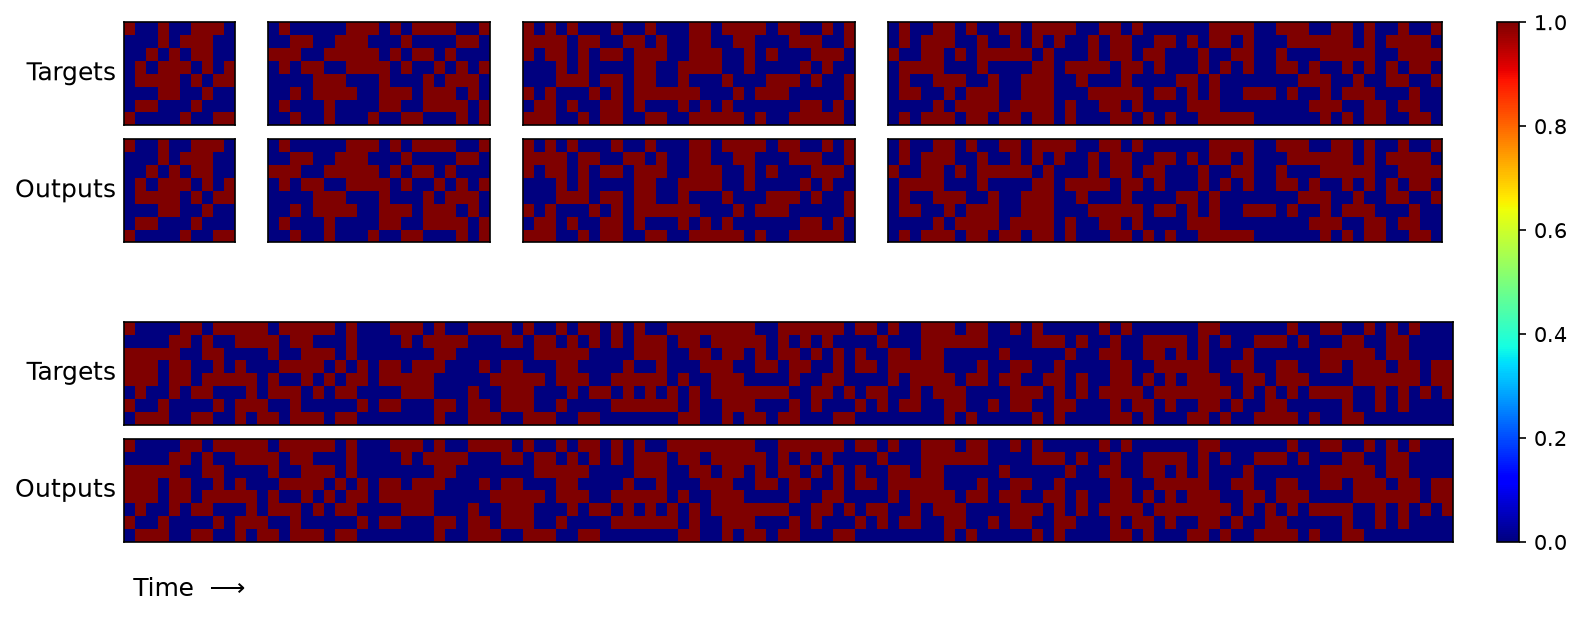
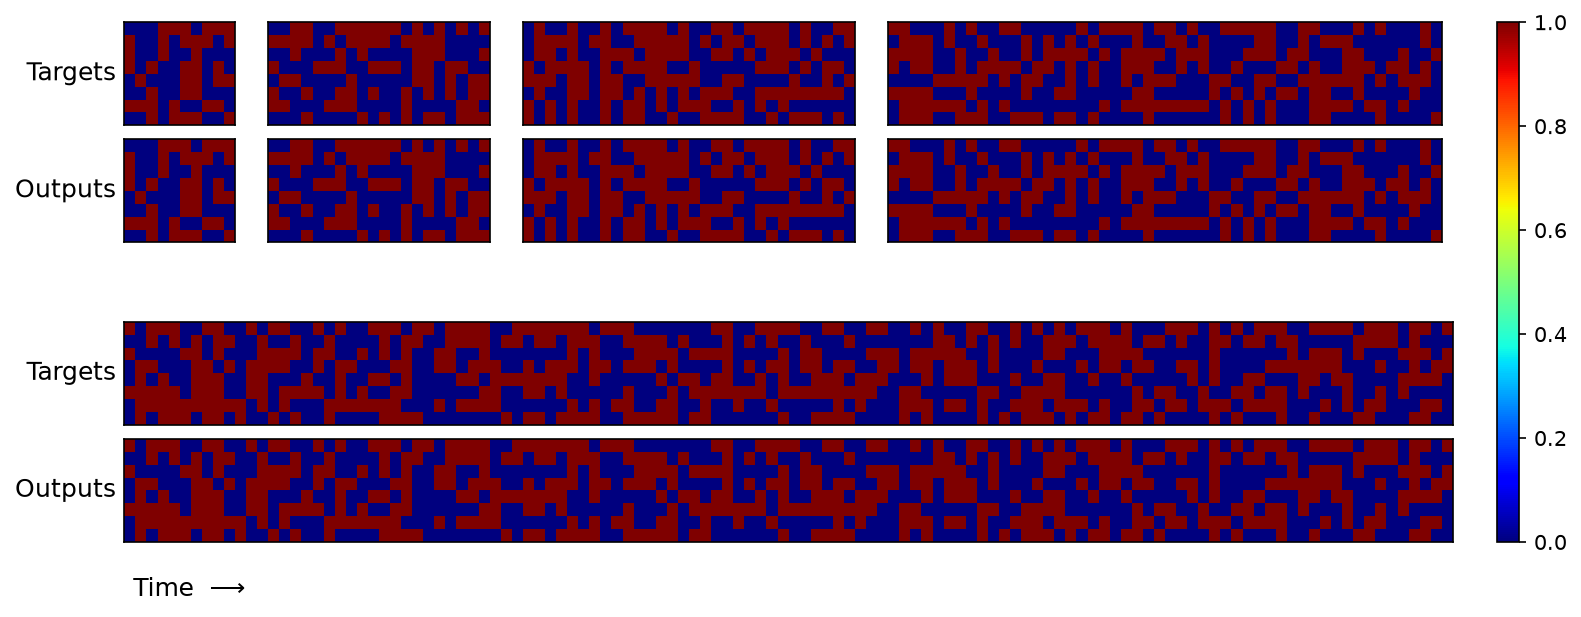
Remove the repeat copy task
The reproduction did not hold up. The interpolation gate turned out to
predict generalisation cleanly - every converged run with an open gate
beat every run with a closed one, and biasing it open gave 0.68% error
at twice the training length against 18.5% for the setting we shipped -
but it never gave reliable convergence. gate_bias=+1.0 trained on two of
four seeds, +2.0 and +0.5 on none. A result that appears on half of
seeds is not a reproduction, so the task comes out rather than going
into results.md with a caveat.

Kept, because none of it is repeat-copy specific: the captured-graph
fixes, the diagnostics probe, and the finding that training lengths 1-10
do not bootstrap where 1-20 do - which will decide whether whatever task
replaces this one trains at all.

Copy is untouched: 18 tests pass and its figures still draw.

Changed region(s): [[0.062, 0.5235, 0.9298, 0.893], [0.062, 0.0308, 0.9298, 0.4003]]

diff --git a/src/models/build.py b/src/models/build.py
@@ -22,31 +22,6 @@ SETTINGS = {
         "ntm-lstm": dict(heads=1, controller_size=100, learning_rate=1e-4),  # Table 2
         "lstm": dict(hidden_size=256, num_layers=3, learning_rate=3e-5),  # Table 3
     },
-    "repeat-copy": {
-        # initial_focus is ours, not the paper's: repeat copy needs the head to sweep one block
-        # of memory R times, which means shifting, and a diffuse starting weighting is a poor
-        # thing to shift. It buys faster convergence and costs nothing measurable afterwards.
-        #
-        # We also used to bias the interpolation gate to -2.0 here, and that was a mistake. It
-        # held the gate at its starting value for the whole run (0.083 after 446,000 sequences,
-        # against sigmoid(-2) = 0.119 at init), which left the write head a pure shift register:
-        # sharp weighting, full-strength erase, one location per timestep, for every timestep of
-        # the output phase. Inside the training range that is harmless, because the longest
-        # example is 112 timesteps and the head runs off into memory it never wrote. Past 128 it
-        # laps the ring and erases the sequence it is still reading out, which is why
-        # generalisation collapsed on both axes.
-        #
-        # The copy task, which never had this bias, shows what the model learns instead when it
-        # is left alone: it raises the gate from 0.20 in the input phase to 0.44 in the output
-        # phase, and the write weighting goes diffuse (peak 0.41, against 0.95 here). A spread
-        # weighting makes the write harmless without the head ever having to stop. That is the
-        # behaviour the bias was preventing, so the bias is gone.
-        "ntm-ff": dict(heads=1, controller_size=100, learning_rate=1e-4,
-                       initial_focus=True),  # Table 1
-        "ntm-lstm": dict(heads=1, controller_size=100, learning_rate=1e-4,
-                         initial_focus=True),  # Table 2
-        "lstm": dict(hidden_size=512, num_layers=3, learning_rate=3e-5),  # Table 3: 3 x 512 here
-    },
 }
 
 

diff --git a/src/plots.py b/src/plots.py
@@ -12,13 +12,12 @@ import os
 import matplotlib.pyplot as plt
 
 from src.tasks.copy import plots as copy_plots
-from src.tasks.repeat_copy import plots as repeat_copy_plots
 
 # Task name -> the module drawing that task's own figures. A module may define
 # plot_generalisation(model_name, checkpoint_path, out_path) and
 # plot_memory_use(model_name, checkpoint_path, out_path, length); a task with neither still
 # trains and still gets its learning curves.
-TASK_PLOTS = {"copy": copy_plots, "repeat-copy": repeat_copy_plots}
+TASK_PLOTS = {"copy": copy_plots}
 
 
 def task_plot(task_name: str, figure: str):

diff --git a/main.py b/main.py
@@ -2,7 +2,6 @@
 
     uv run main.py demo                        run one batch through an untrained model
     uv run main.py train --model ntm-ff        train (also: lstm, ntm-lstm)
-    uv run main.py train --task repeat-copy    train on another task (also: copy)
     uv run main.py plot --model ntm-ff         draw Figures 3 and 5 into figures/
     uv run main.py try 10110010 01100101 ...   copy your own 8-bit vectors
     uv run main.py try --random 30             or a random sequence of that length

diff --git a/modal_run.py b/modal_run.py
@@ -1,7 +1,6 @@
 """Train on a Modal GPU and bring the results back.
 
     uv run --with modal modal run modal_run.py --model lstm
-    uv run --with modal modal run modal_run.py --model ntm-ff --task repeat-copy
 
 Each step replays as a single CUDA graph, which is what makes a GPU worth using here: eager, the
 NTM is several times slower on a GPU than on a laptop CPU, because it launches a few hundred tiny

diff --git a/src/tasks/registry.py b/src/tasks/registry.py
@@ -14,11 +14,9 @@ demo and the task's own figures use to pin an example to a chosen length.
 """
 
 from src.tasks.copy import data as copy_data
-from src.tasks.repeat_copy import data as repeat_copy_data
 
 TASKS = {
     "copy": copy_data,  # paper, Section 4.1
-    "repeat-copy": repeat_copy_data,  # Section 4.2
 }
 
 

diff --git a/results.md b/results.md
@@ -116,138 +116,3 @@ uv run main.py memory --model ntm-ff --length 40
 
 About 70 minutes per NTM on an A10G, or four hours on a laptop CPU; `modal_run.py` runs it on a
 rented GPU and downloads the results.
-
----
-
-# Results: the repeat copy task
-
-The same three models and the same 500,000 sequences, on the task from Section 4.2: read up to
-ten 8-bit vectors and a scalar repeat count, then emit the sequence that many times and raise an
-end-of-sequence marker. Both L and R are drawn from 1 to 10, so the longest training example is
-112 timesteps. Architectures and learning rates are the paper's Tables 1 to 3 again: 3e-5 for the
-LSTM baseline (5,280,265 parameters), 1e-4 for both NTMs (16,317 and 66,217).
-
-## Learning curves (paper Figure 7)
-
-![Repeat copy learning curves](figures/repeat-copy/learning_curves.png)
-
-Cost in bits per sequence, as a rolling median over the last 20,000 sequences - at one sequence
-per update the mean is dominated by a heavy tail of rare bad batches, which is what makes the raw
-curve so noisy:
-
-| | first median below 1 bit | first below 0.1 bits | median at the end |
-|---|---|---|---|
-| NTM, LSTM controller | **38,000** | **54,000** | **0.0003** |
-| NTM, feed-forward | 121,000 | - | 0.68 |
-| LSTM | 307,000 | 419,000 | 0.0088 |
-
-The ordering matches the paper's Figure 7: the LSTM-controller NTM first, the feed-forward NTM
-next, the LSTM baseline last, by roughly an order of magnitude in sequences. Two differences from
-the paper. Our LSTM baseline does eventually solve the task, at about 400,000 sequences, where
-the paper's is still well above zero at the end of its run. And our feed-forward NTM does not
-fully settle: it was still improving when the run ended, at about 0.2 bits, hitting exact zero on
-most sequences and losing a whole copy on a minority of them.
-
-## Generalisation (paper Figure 9)
-
-Trained on L, R up to 10. Percentage of output *data* bits wrong, ten sequences per cell; the
-end-of-sequence marker is scored separately below.
-
-| | trained (L10 R10) | twice the length (L20 R10) | twice the repeats (L10 R20) | 1.5x both (L15 R15) |
-|---|---|---|---|---|
-| LSTM | 0.0% | 45.5% | 4.5% | 46.1% |
-| NTM, feed-forward | 0.1% | 40.2% | 48.8% | 44.1% |
-| NTM, LSTM controller | 0.0% | **20.6%** | **17.7%** | **24.5%** |
-
-![NTM repeat-copy generalisation](figures/repeat-copy/ntm-lstm_generalisation.png)
-
-*NTM, LSTM controller. Each pair is targets above, outputs below: the trained range, then twice
-the length, then twice the repeats.*
-
-**This is the one place the reproduction clearly falls short.** The paper's Figure 9 shows an NTM
-that keeps copying correctly well past the trained range and fails only on the end marker, which
-it never learns to place. Ours copies correctly for roughly the first 150 timesteps of any test
-sequence and then degrades, on both axes equally.
-
-That symmetry is the clue, and the paper names the mechanism itself. Footnote 2, on the copy
-task's own limits: *"The limiting factor was the size of the memory (128 locations), after which
-the cyclical shifts wrapped around and previous writes were overwritten."* So this failure is
-not one we invented - it is the same wall Graves et al. hit. What differs is that their copy
-network only writes during the input phase, so it reaches length 120 before wrapping, whereas
-ours keeps writing all through a repeat copy output phase and wraps far sooner.
-
-150 timesteps is close to the 128 locations in memory, and the
-degradation does not care whether the extra timesteps came from a longer sequence or from more
-repeats. Tracing the heads confirms it. The write head does not stop when the input ends - it
-keeps stepping forward one location per timestep through the whole output phase. Inside the
-trained range that is harmless, because the longest example is 112 timesteps and the head runs
-off the end of the used region into empty memory: at L10 R10, 0 of 101 output-phase writes land
-on a location holding data. At L10 R20 the head wraps around the 128 locations and comes back to
-the start, and 10 of 201 output-phase writes land on stored vectors, with a mean erase strength
-of 0.38 and added vectors of magnitude 1.03. The model overwrites its own input while it is still
-reading it out.
-
-The read head shows the other half. At the trained size the LSTM-controller NTM jumps cleanly
-back to the start of the sequence at the end of each copy - 9 of 9 jumps, with the weighting
-peaking at 0.996. At R = 20 it manages only 11 of 19, and the peak weighting falls to 0.722: by
-then the locations it is jumping back to have been partly erased, so content addressing no longer
-finds them sharply. The feed-forward controller is worse, hitting only 7 of 9 jumps at a peak of
-0.436 even inside the trained range, which is consistent with its higher error everywhere.
-
-None of that is a bug in the addressing - it is a real limitation of what 500,000 sequences of
-this task taught the model. Nothing in the training distribution ever punishes writing during the
-output phase, because no training sequence is long enough for the write head to come back around.
-
-## Memory use
-
-![NTM repeat-copy memory use](figures/repeat-copy/ntm-lstm_memory.png)
-
-*The learned loop. The write head lays the sequence down one location per timestep, and the read
-head then sweeps the same block of locations once per repeat, snapping back to the first location
-each time the copy ends.*
-
-## Why this needed an addition the paper does not describe
-
-Repeat copy did not train at all from the initialisation the copy task uses: both NTMs sat near
-chance for 100,000 sequences. We added two things to get it moving, and only one of them turned
-out to deserve a place.
-
-**What goes wrong is the sequence length, not the repeats.** Holding the model, the loop and the
-seed fixed and changing only the training length range on the *copy* task:
-
-| lengths trained on | cost at 10,000 sequences | converged |
-|---|---|---|
-| 1 to 20 | 0.01 bits | yes, by 7,500 |
-| 1 to 15 | 0.69 | yes, by 10,000 |
-| **1 to 10** | **27.0, 29.8, 30.5** (three seeds) | **no** |
-| fixed length 10 | 61.5 | no |
-
-Copy trains on lengths 1 to 20 and bootstraps itself. Repeat copy trains on 1 to 10, below the
-threshold, so it needs help that copy never does. A degenerate range is worse still than a narrow
-one, so this is about the variety of lengths the head sees early, not simply about short
-sequences.
-
-**The initial weighting is focused, not random** - ours, not the paper's. The starting weighting
-puts its mass on location 0 instead of being drawn from a normal, so the heads begin somewhere
-definite and the shift mechanism has something to step from. On copy restricted to lengths 1 to
-10 this alone converges in 6,000 sequences and then copies length 120, twelve times the training
-range, at zero bit error.
-
-**The write gate does not start closed, and biasing it was a mistake.** We used to set the
-interpolation gate's bias to -2.0. On the same short-copy bench, adding it to the focused start
-makes convergence slower - 10,000 sequences against 6,000 - and takes generalisation from 0%
-wrong at length 120 to 49%, which is chance. On its own it does not learn the task at all. It
-also never moved during training: after 446,000 sequences the output-phase gate read 0.083,
-against sigmoid(-2) = 0.119 at initialisation. It is gone.
-
-That bias is the best explanation we have for the generalisation gap above, and it was our own
-doing rather than anything the paper specifies.
-
-## Reproducing
-
-```sh
-uv run main.py train --task repeat-copy --model ntm-lstm --sequences 500000
-uv run main.py compare --task repeat-copy
-uv run main.py plot --task repeat-copy --model ntm-lstm
-uv run main.py memory --task repeat-copy --model ntm-lstm
-```
